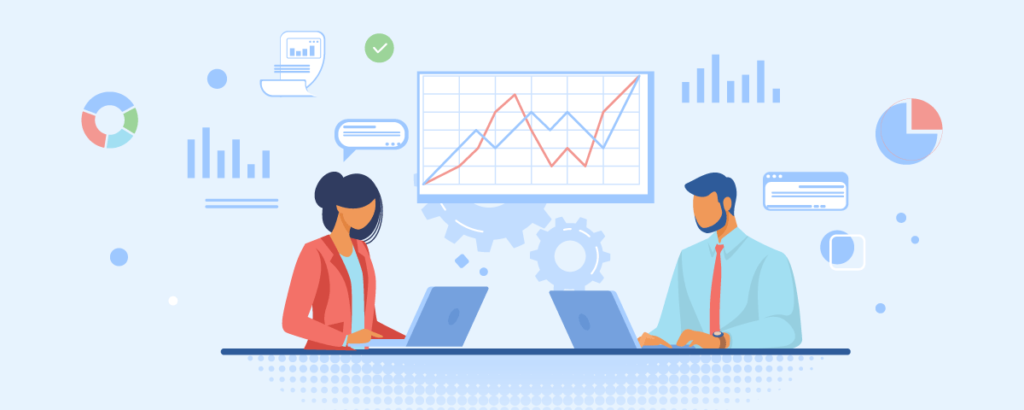
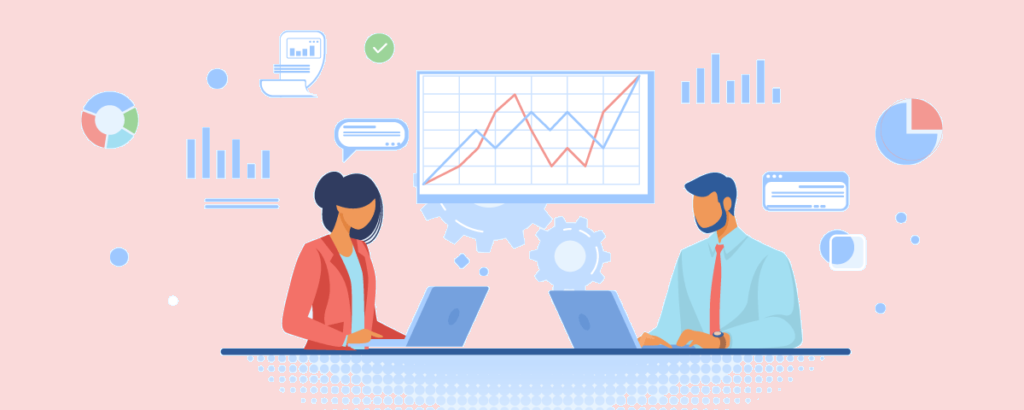
some modifications

diff --git a/index.html b/index.html
@@ -9,8 +9,9 @@
         <link rel="stylesheet" href="https://cdnjs.cloudflare.com/ajax/libs/twitter-bootstrap/4.1.3/css/bootstrap.min.css">
         <link rel="stylesheet" href="https://cdnjs.cloudflare.com/ajax/libs/ionicons/2.0.1/css/ionicons.min.css">
         <link rel="stylesheet" href="assets/css/style.css">
-        <link rel="icon" type="image/x-icon" href="logo.png" />
+        <link rel="icon" type="image/x-icon" href="media/icon.png" />
         <link href="css/styles.css" rel="stylesheet" />
+        <script src="https://kit.fontawesome.com/3030921fc2.js" crossorigin="anonymous"></script>
         <script src="https://ajax.googleapis.com/ajax/libs/jquery/3.1.1/jquery.min.js"></script>
         <script src="https://kit.fontawesome.com/c8e4d183c2.js" crossorigin="anonymous"></script>
 
@@ -26,11 +27,11 @@
         </script>
     </head>
 
-    <body style="background-color:#e7f3fe">
+    <body style="background-color:#FADADA">
         <nav class="nav">
             <div class="logo">
                 <a href="#home" style="color: #0F0F52; text-decoration:none">
-                    <img src="media/logo.png" style="width: 5%">MIL
+                    <img src="media/headerLogo.png" style="width: 6%">
                 </a>
             </div>
             <div id="mainListDiv" class="main_list">
@@ -50,9 +51,9 @@
             </span>
         </nav>
 
-        <div class="container" id="container">
+        <div class="container" id="container" style="width:70%; margin: 0 auto">
             <div class="text-center mt-5" style="padding-top:30px">
-                <h1 style="color:#1B5895">
+                <h1 class="section-header" style="color:#751D41">
                     <b>Software Development</b>
                 </h1>
                 <h2 style="font-size: 16pt">
@@ -64,25 +65,27 @@
             </div>
         </div>
 
-        <div class="aboutUs" id="aboutUs">
+        <div class="aboutUs" id="aboutUs" style="">
             <div class="text-center mt-5">
                 <h2 style="font-size: 16pt; color: #0c5db9; padding-top: 48px" class="section-header"><b> About Us</b></h2>
-                <div align="left" class="row justify-content-center">
-                    <p style="width: 70%; text-align: left">
-                    <b style="font-size: 18px">Who are we?</b><br>
-                    A young Georgian company;<br>
-                    Our  clients  are  mostly  French  or British;<br>
-                    We  are  two  partners  with  an engineering  background  specialized in<br>
-                    Business  Intelligence &  consulting on  one  hand  and  Machine  learning <br>
-                    cloud application development on the other.<br>
-                     <br>
-                    <b style="font-size: 18px">Our specialization</b><br>
-                    Data collection & strategy;<br>
-                    Data science;<br>
-                    Business Intelligence;<br>
-                    Database management;<br>
-                    Machine Learning;<br>
-                    Cloud application.
+                <div align="center" class="row justify-content-center" style="display: flex; justify-content: space-between; width:70%; margin: 0 auto">
+                    <p class="col-md-6" style="flex-basis: 49.5%; text-align: left; padding-bottom:50px">
+                        <b style="font-size: 18px">Who are we?</b><br>
+                        A young Georgian company;<br>
+                        Our  clients  are  mostly  French  or British;<br>
+                        We  are  two  partners  with  an engineering  background  specialized in<br>
+                        Business  Intelligence &  consulting on  one  hand  and  Machine  learning <br>
+                        cloud application development on the other.<br>
+                    </p>
+                    <p class="col-md-6" style="flex-basis: 49.5%; text-align: right; padding-bottom:50px">
+                        <b style="font-size: 18px">Our specialization</b><br>
+                        Data collection & strategy;<br>
+                        Data science;<br>
+                        Business Intelligence;<br>
+                        Database management;<br>
+                        Machine Learning;<br>
+                        Cloud application.
+                    </p>
                 </div>
                 <div class="main">
                     <div class="profile-card">
@@ -142,31 +145,31 @@
             </div>
         </div>
 
-        <div class="projects" id="projects">
+        <div class="projects" id="projects" style="width:70%; margin: 0 auto">
             <div class="text-center mt-5">
                 <h2 style="font-size: 16pt; color: #DEC11F; padding-top: 48px" class="section-header"><b>Our Projects</b></h2>
                 <div align="center" class="projectsText">
-                    <p style="width: 70%; text-align: left">
+                    <p style="text-align: left">
                         Welcome to our projects page! You can learn more about the exciting work we have been
                         doing and get a glimpse of the results we have achieved for our clients.
                     </p>
                     <ul class="currentProjects" style="font-weight: 500; font-size: 14pt">
-                        <li style="font-weight: 370; font-size: 12pt; text-align: left; width: 70%">
+                        <li style="font-weight: 370; font-size: 12pt; text-align: left;">
                             Development of a hotel price benchmarking tool via web scraping from digital travel agencies
                             for travel IT service provider;
                         </li>
-                        <li style="font-weight: 370; font-size: 12pt; text-align: left; width: 70%">
+                        <li style="font-weight: 370; font-size: 12pt; text-align: left;">
                             Collection of customer reviews on online reservation services website via web scraping &
                             text analysis for rating;
                         </li>
-                        <li style="font-weight: 370; font-size: 12pt; text-align: left; width: 70%">
+                        <li style="font-weight: 370; font-size: 12pt; text-align: left;">
                             ETL & generation of daily commercial dashboards (navigation, billing...) for sales teams;
                         </li>
-                        <li style="font-weight: 370; font-size: 12pt; text-align: left; width: 70%">
+                        <li style="font-weight: 370; font-size: 12pt; text-align: left;">
                             Optimization of operational parameters of industrial processes in order to reduce energy
                             consumption;
                         </li>
-                        <li style="font-weight: 370; font-size: 12pt; text-align: left; width: 70%">
+                        <li style="font-weight: 370; font-size: 12pt; text-align: left;">
                             Development of "no-code" application for creation and deployment of machine learning models.
                         </li>
                     </ul>
@@ -174,8 +177,8 @@
             </div>
         </div>
 
-        <section id="testimonials">
-        <div class="testimonial-heading" id="reviews" style="padding-top: 48px">
+        <section id="testimonials" style="width:70%; margin: 0 auto">
+        <div class="testimonial-heading" id="reviews">
             <span class="section-header"><b>Comments</b></span>
         </div>
         <div class="testimonial-box-container">
@@ -282,7 +285,7 @@
         </div>
     </section>
 
-        <section id="contact">
+        <section id="contact" style="width:70%; margin: 0 auto">
           <h1 class="section-header" style="font-size: 16pt; color: #DC7A1E; padding-top: 48px"><b>Get In Touch</b></h1>
           <div class="contact-wrapper">
             <form id="contact-form" class="form-horizontal" role="form">
@@ -325,7 +328,7 @@
                 <div class="container">
                     <div class="row" >
                         <div class="col-md-12 about company">
-                            <h3 style="text-align: center">MIL Data</h3>
+                            <img src="media/footerLogo.png" class="center" style="width: 6%">
                             <p style="text-align: center; width: 100%">At our company, we believe in the power of data
                                 analysis to make a positive impact for your business.<br>
                                 Since our founding in 2010, we

diff --git a/css/styles.css b/css/styles.css
@@ -83,6 +83,13 @@ body {
   -webkit-tap-highlight-color: rgba(0, 0, 0, 0);
 }
 
+.center {
+  display: block;
+  margin-left: auto;
+  margin-right: auto;
+  width: 50%;
+}
+
 #contact {
   width: 100%;
   height: 100%;
@@ -353,7 +360,7 @@ hr {
      display: flex;
      justify-content: center;
      align-items: center;
-     background-color: #0c5db9;
+     background-color: #751D41;
    }
 
    .profile-card{
@@ -11403,14 +11410,14 @@ button {
 }
 .affix {
     padding: 0;
-    background-color: #F3F3FA;
+    background-color: #FAE5E5;
     border-bottom: 1px solid #9AA2B4
 }
 
 .footer-dark {
   padding:30px;
   color:#f0f9ff;
-  background-color:#282d32;
+  background-color:#751D41;
 }
 
 .footer-dark h3 {
@@ -11515,8 +11522,8 @@ a{
 }
 .testimonial-heading{
     letter-spacing: 1px;
-    margin: 30px 0px;
-    padding: 10px 20px;
+    margin: 10px 0px;
+    padding: 10px 10px;
     display: flex;
     flex-direction: column;
     justify-content: center;
